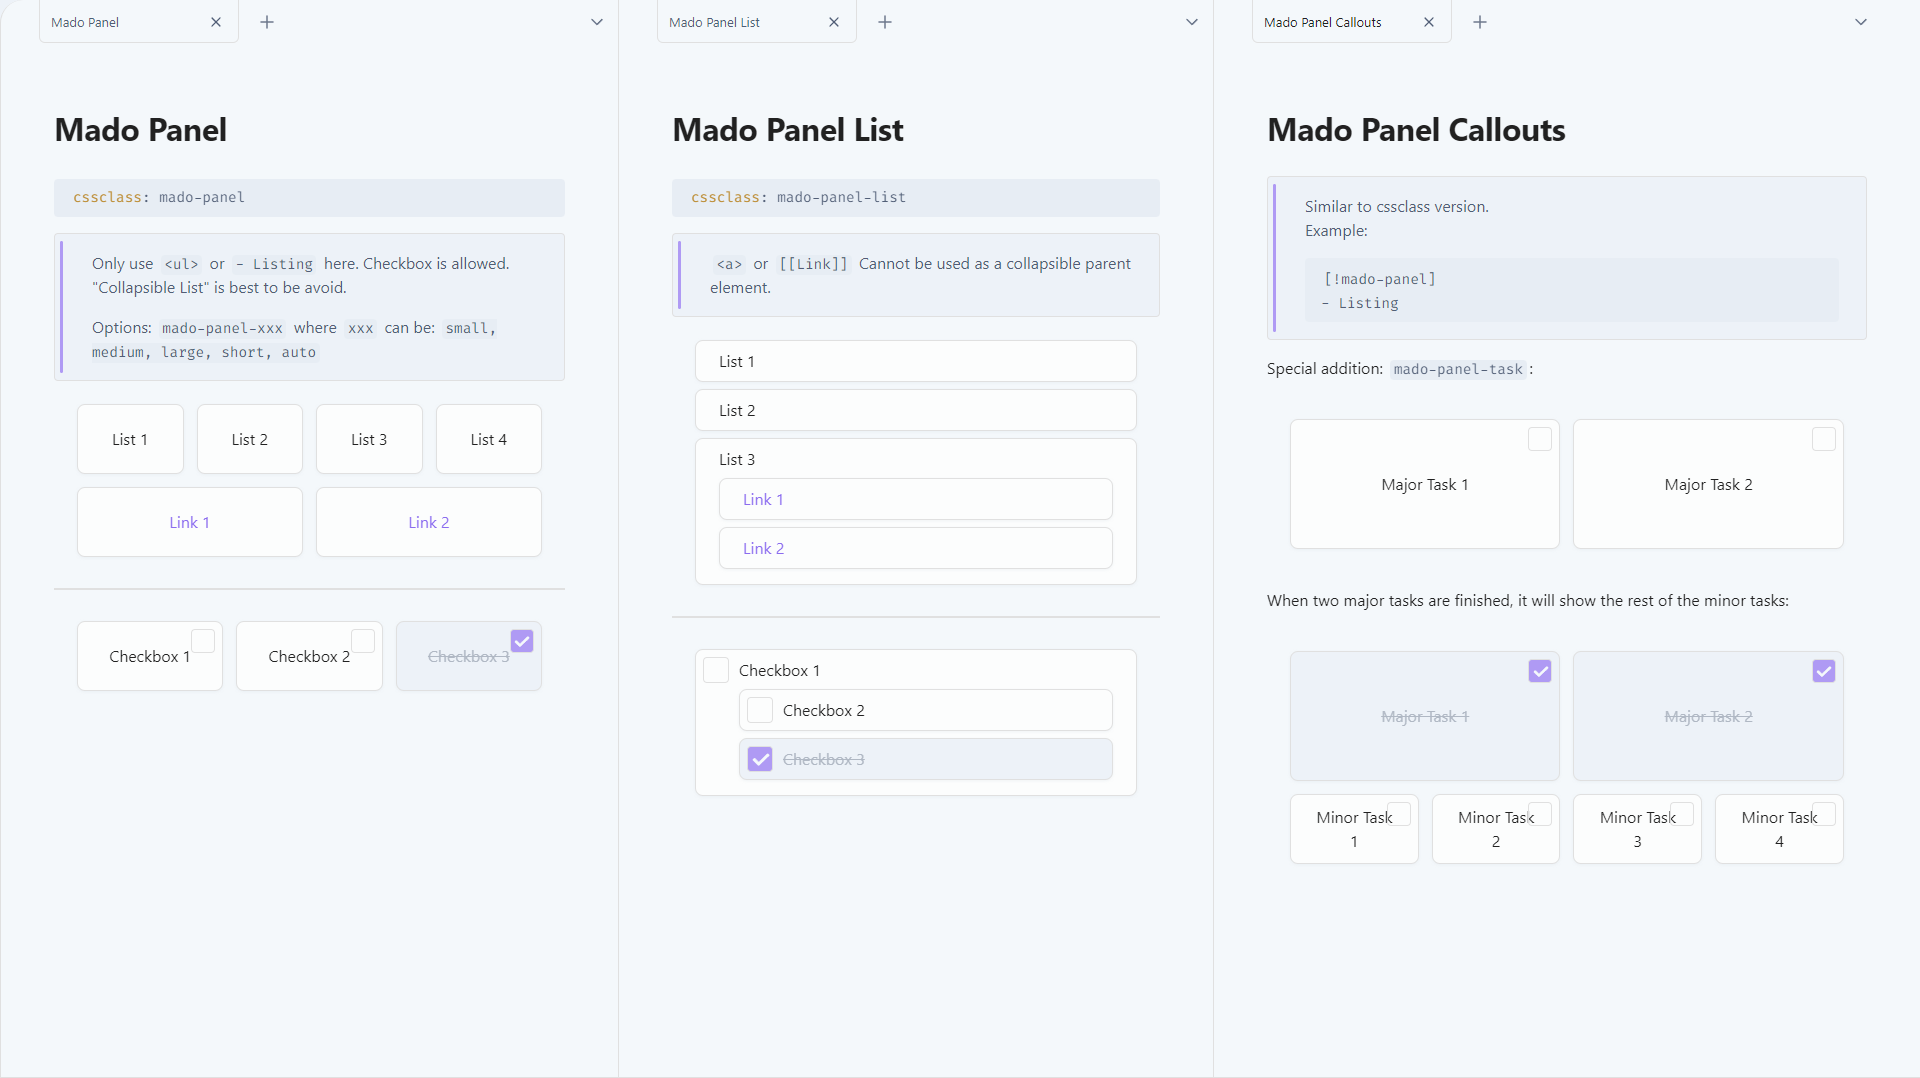
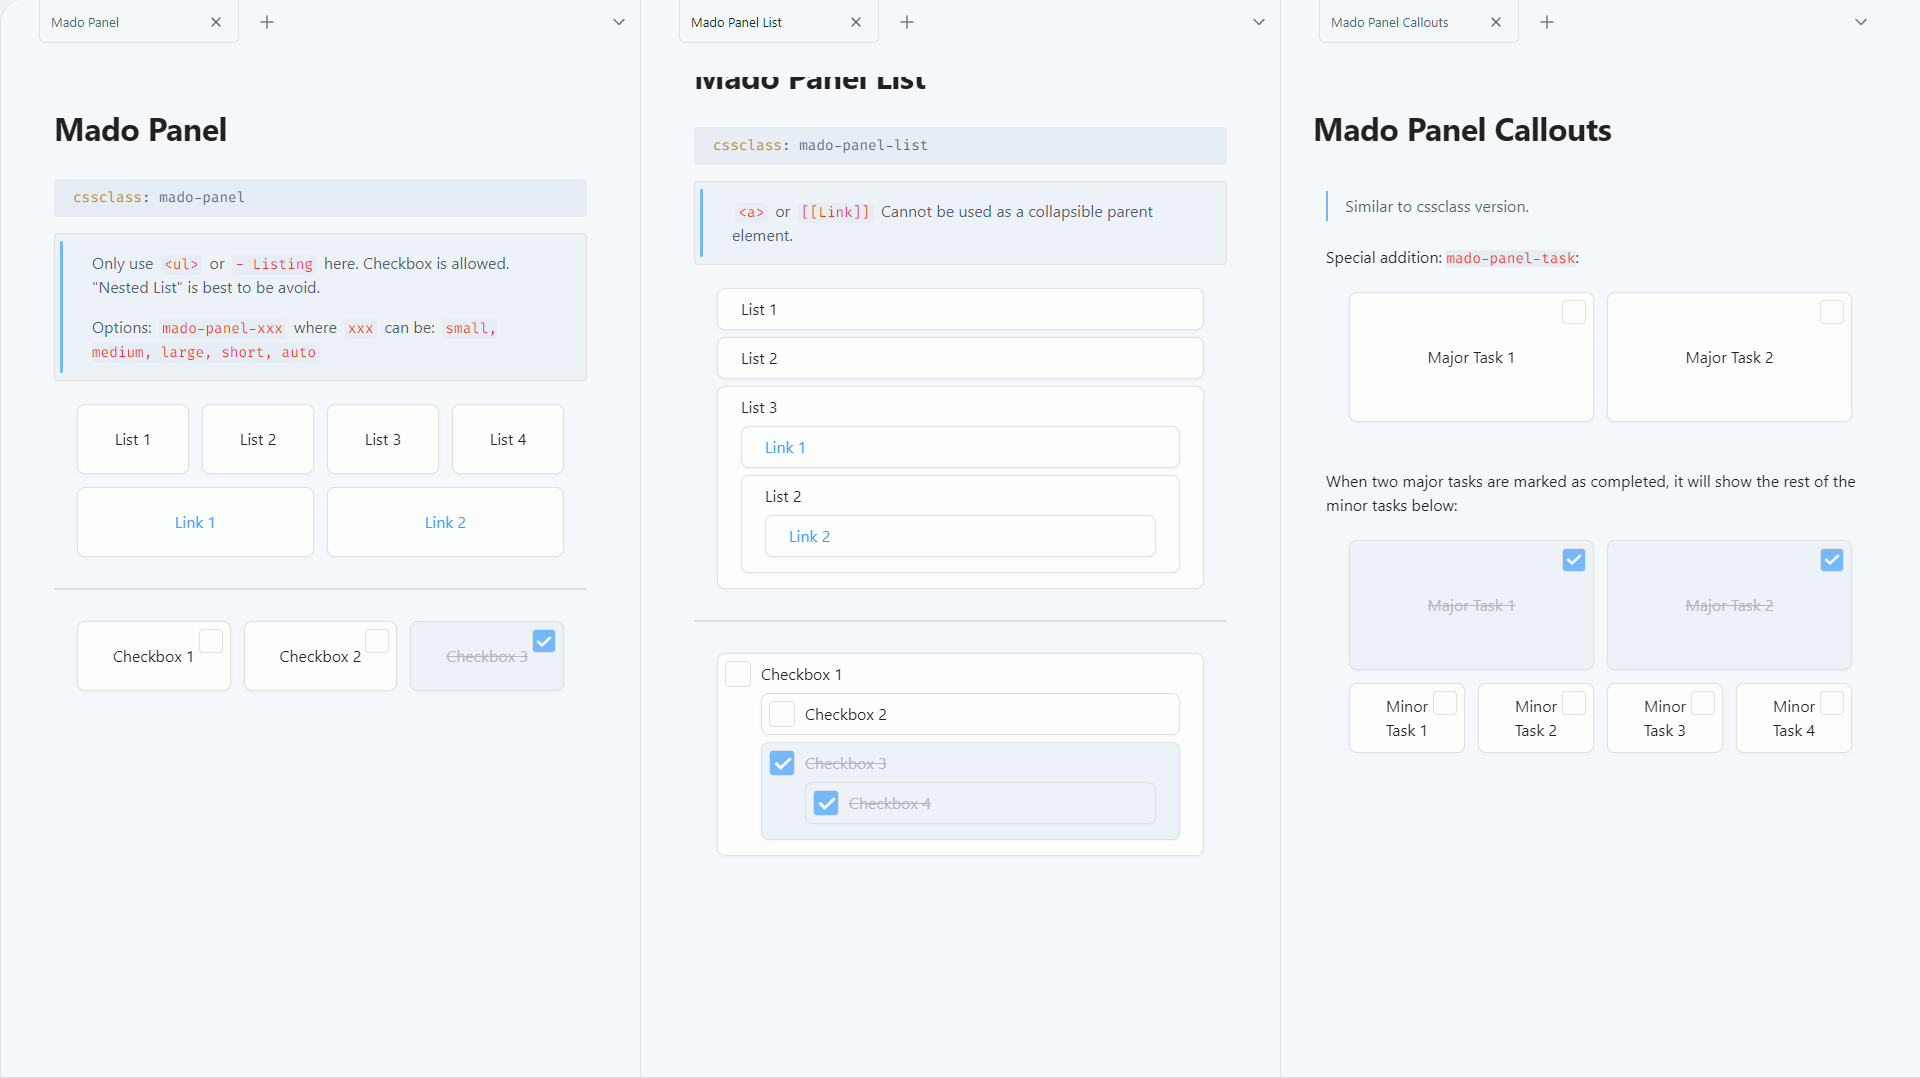
readme and image update

diff --git a/theme.css b/theme.css
@@ -753,7 +753,7 @@ body.is-frameless:not(.is-hidden-frameless) .workspace-split.mod-horizontal.mod-
 
 /* make space when right sidebar is collapsed */
 .workspace:not(.is-right-sidedock-open) .sidebar-toggle-button.mod-right{
-	margin-right:4px;
+	padding-right:4px;
 }
 
 

diff --git a/README.md b/README.md
@@ -15,28 +15,147 @@ Recommended fonts for this theme:
 
 
 ## Mado CSS Classes For Fun!
-
-- **Mado-Heading**, for an alternative bulky button feel!
+<details>
+<summary><b>Mado-Heading</b></summary>
 
 ![](img/mado-heading.png)
 
-- **Mado-Table**, fancy spacious table with few options such as header-positions `top, bottom, left, right, topless`, styling `stripe, border`, without the fancy style `normal`, and auto-widen `auto`.
+```
+cssclass: mado-heading
+```
+Transforming your normal note into more bulky block button design!
+
+</details>
+<details>
+<summary><b>Mado-Explorer</b></summary>
+
+![](img/mado-explorer.png)
+
+```
+cssclass: mado-explorer
+```
+
+When placed onto the sidebar, it will become exactly like how File Explorer would look like. A.k.a. pseudo-File Explorer!
+There are rules for this to work:
+
+```
+1. You may only use <a>(link), <h1>(h1 heading) and <li>(list) in the note.
+2. <a> will act as first level file title.
+3. <h1> will act as first level folder title.
+4. <li> will act as first level folder's children, where its contents should fill with just <a>, and itself should be placed below <h1>.
+5. Second level folder, or nested <li>, is not possible.
+6. For <h1> to be foldable, you have to enable the foldable option in the settings.
+
+```
+
+Example:
+
+```
+[[File 1]]
+[[File 2]]
+# Folder 1
+- [[Listed File 1]]
+- [[Listed File 2]]
+[[File 3]]
+```
+
+</details>
+<details>
+<summary><b>Mado-Table</b></summary>
 
 ![](img/mado-table.png)
 
-- **Mado-Panel**, turns all of your lists into panels. Options come with collapsible `list`, panel fixed-sizing `small, medium, large, long, short` with auto-resize `auto`.
-  
-- Callout version comes with `task` option.
-  
+```
+cssclass: mado-table
+```
+
+Turns your normal-looking table into a fancy spacious one! With more options provided for you to tweak the like of it.
+Example:
+
+```
+cssclass: mado-table (special styling)
+cssclass: mado-table-XXX (special styling with XXX being the options)
+cssclass: mado-table-XXX, mado-table-XXX (special styling with multiple options)
+```
+
+```
+Options:
+mado-table-auto (auto-widen table size by its contents and center it)
+mado-table-normal (no special styling, include this if you wish to use other options without special styling)
+
+mado-table-stripe, mado-table-border (stripe/border design)
+mado-table-left, mado-table-right, mado-table-top, mado-table-bottom (define table-header position)
+mado-table-topless (remove table-header position on the top)
+```
+
+</details>
+<details>
+<summary><b>Mado-Panel</b></summary>
+
 ![](img/mado-panel.png)
 
-- **Mado-Explorer**, turns your note into pseudo-File Explorer.
+```
+cssclass: mado-panel
+```
 
-- **Mado-Timeline**, centering all elements with minor special adjustment.
+Turns your lists into panels! More fancy way to look and click. Also comes with options to tweak.
+Example:
 
-- **Mado-Daily**, manually stamp your daily card for continuous-streak bonus at every 2nd and 5th day!
+```
+cssclass: mado-panel (transform all lists into panels)
+cssclass: mado-panel-XXX (XXX being the options)
+cssclass: mado-panel-XXX, mado-panel-XXX (including more options, in this case, only `auto` is available as an extra)
 
-![](img/mado-timeline-explorer-daily.png)
+Options:
+mado-panel-list (long and thin size, lists can be nested)
+mado-panel-small, mado-panel-medium, mado-panel-large, mado-panel-long, mado-panel-short (define fixed-size, lists cannot be nested)
+mado-panel-auto (maintain the minimum fixed-size of above, while auto-widen based on its contents, not applicable to mado-panel-list)
+```
+
+Rule:
+
+```
+1. Only <li>(list) will turned into panel.
+2. The list can consist of <a>(link) or "[]"(Checkbox), or plain text.
+3. Nested list is not available except for `mado-panel-list`.
+```
+Callout version is also available if you need only one part of the list to become panel.
+Options in callout version can be chained directly.
+Example:
+
+```
+> [!mado-panel-small-auto]
+> - Listing
+```
+
+</details>
+<details>
+<summary><b>Mado-Timeline</b></summary>
+
+![](img/mado-timeline.png)
+
+```
+cssclass: mado-timeline
+```
+
+Centers all of your element in the note! Not only that, using `<h1>` will form a huge space above it, while using `<h2>` will form a separator (a vertical `<hr>` or `---`) above it.
+
+</details>
+<details>
+<summary><b>Mado-Daily</b></summary>
+
+```
+cssclass: mado-daily
+```
+
+![](img/mado-daily.png)
+
+Feel like logging into a game to turn in for daily bonus? Well, now you can with this manual-stamp daily!
+You can set the reward for every 2nd and 5th day, and then start filling in with any value or emoji in the empty cells. The reward will mark as checked when the previous cell is filled in.
+Also, adding in another cssclass `mado-table` will give it a better looking, optional of course!
+
+</details>
+
 
 ## Changelog  
 
